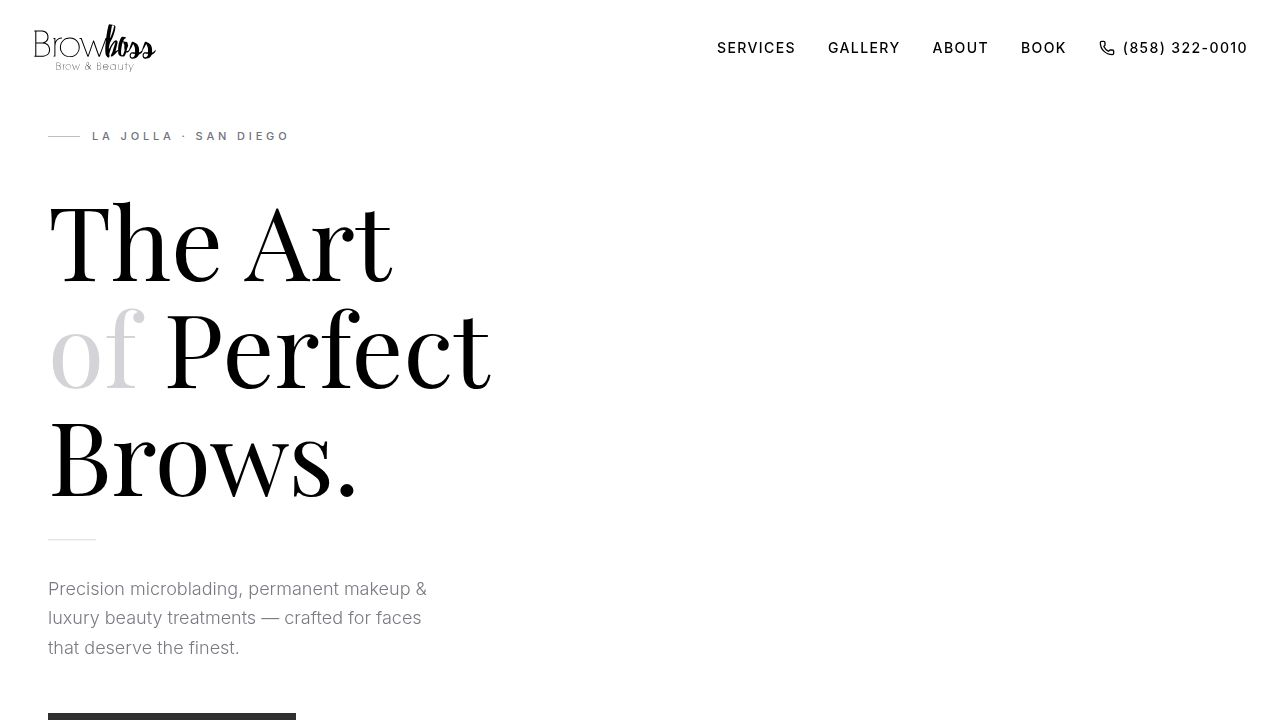
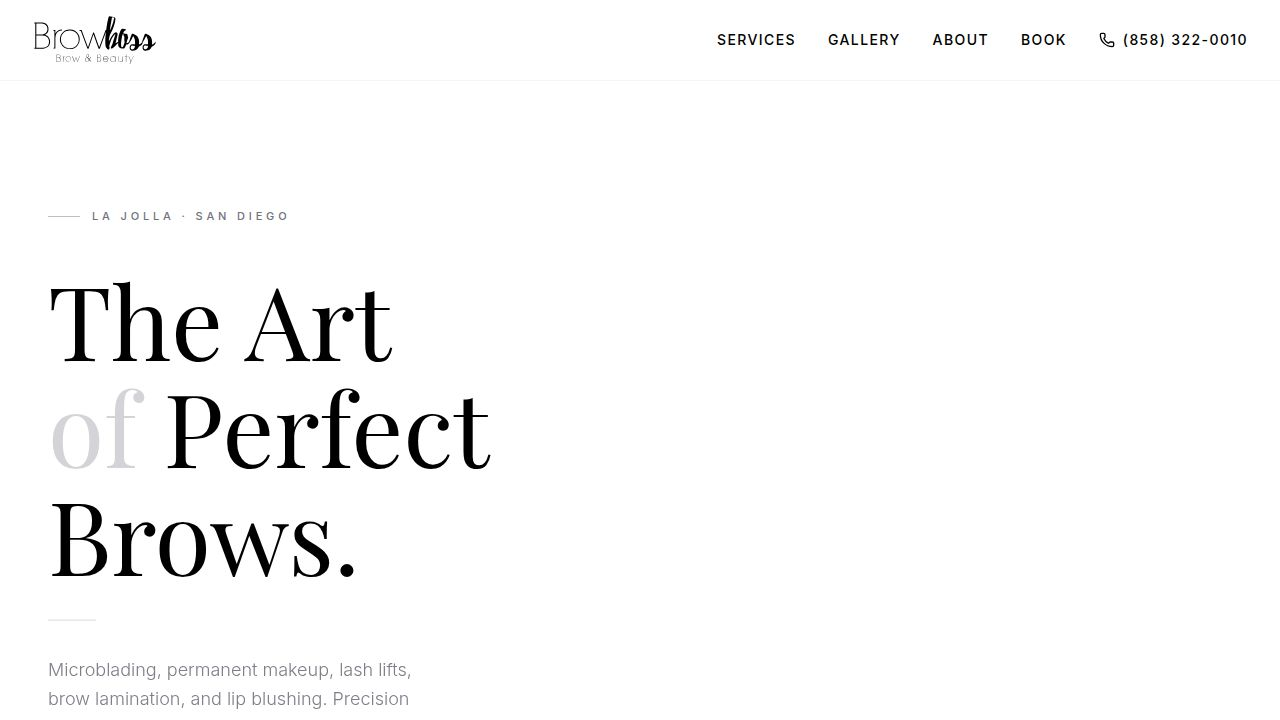
Update service images for powder brows and other cosmetic procedures
Update the image source for the Ombre Powder Brows service to use a new file.

Replit-Commit-Author: Agent
Replit-Commit-Session-Id: 6d369fb7-a3c6-4969-a9a1-9ee3432af596
Replit-Commit-Checkpoint-Type: full_checkpoint
Replit-Commit-Event-Id: d1a7f917-68b2-4824-ae68-bc85209d5c30
Replit-Commit-Screenshot-Url: https://storage.googleapis.com/screenshot-production-us-central1/9047f072-fbae-419b-81c4-e96a671a53f7/6d369fb7-a3c6-4969-a9a1-9ee3432af596/4uR9Em2
Replit-Helium-Checkpoint-Created: true

diff --git a/artifacts/browboss/src/pages/Home.tsx b/artifacts/browboss/src/pages/Home.tsx
@@ -76,7 +76,7 @@ const WORK_VIDEOS: { label: string; instagramUrl?: string; src?: string; poster?
 
 const SERVICES = [
   { name: "Microblading & Shading",     price: "from $600", image: "/videos/v6-f25.jpg" },
-  { name: "Ombre Powder Brows",          price: "from $650", image: "/videos/v6-f30.jpg" },
+  { name: "Ombre Powder Brows",          price: "from $650", image: "/images/powder-brows.jpg" },
   { name: "Lip Blushing",               price: "from $550", image: "/videos/v7-f23.jpg" },
   { name: "Lash Lift",                  price: "from $95",  image: "/videos/v7-f18.jpg" },
   { name: "Brow Lamination",            price: "from $85",  image: "/videos/v7-f17.jpg" },